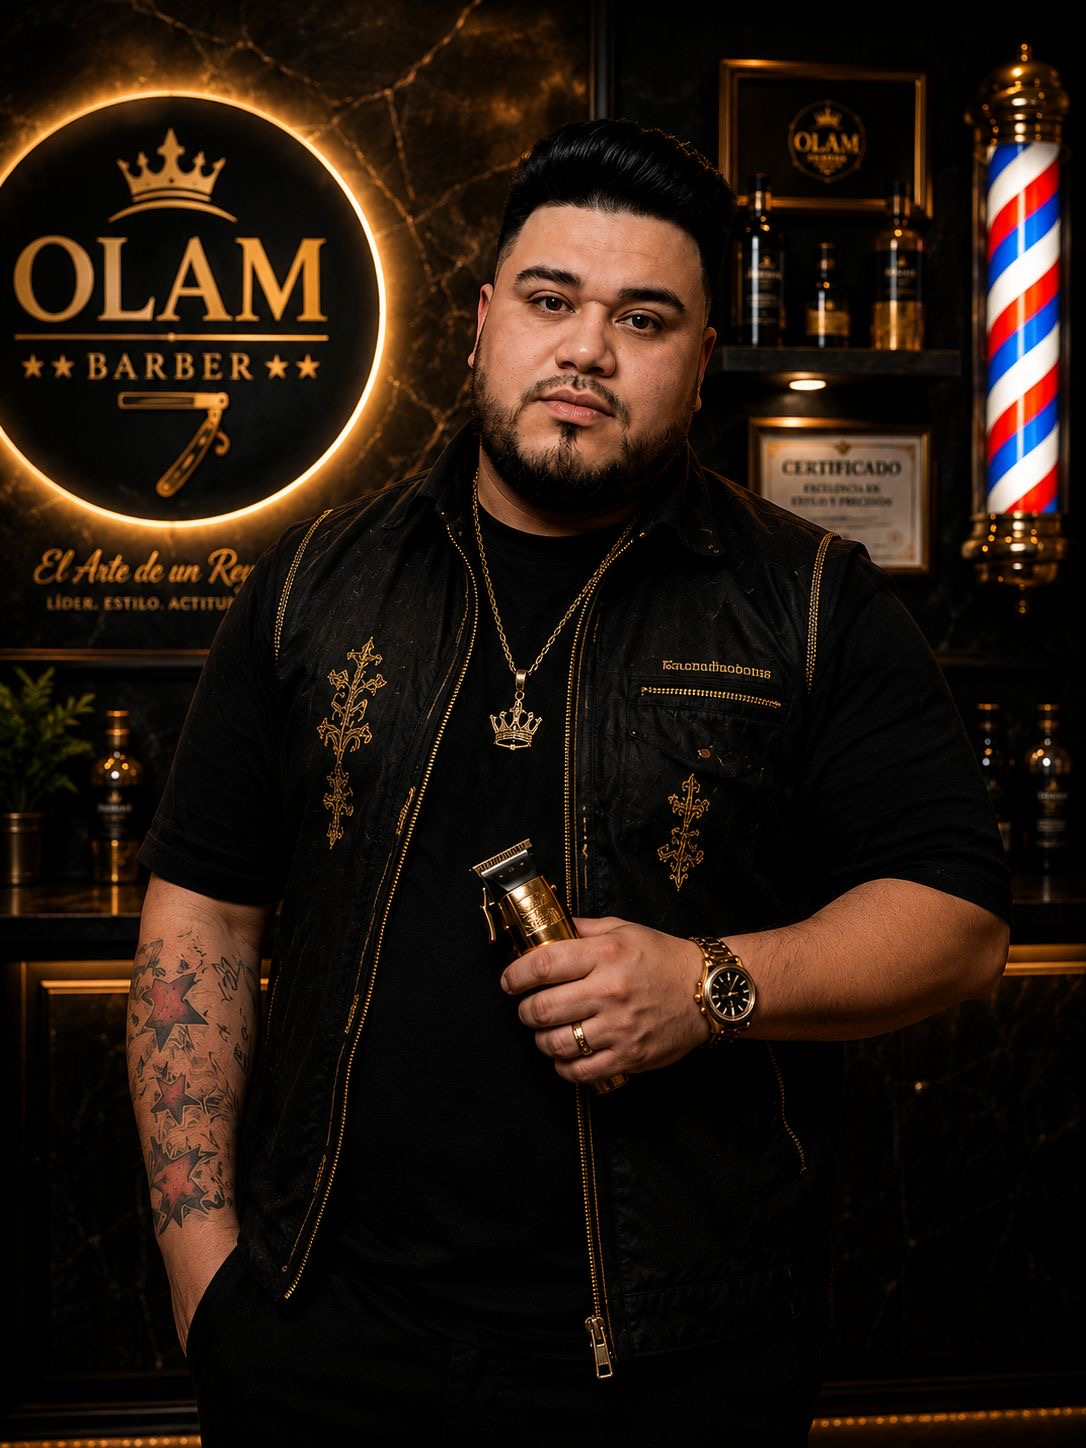
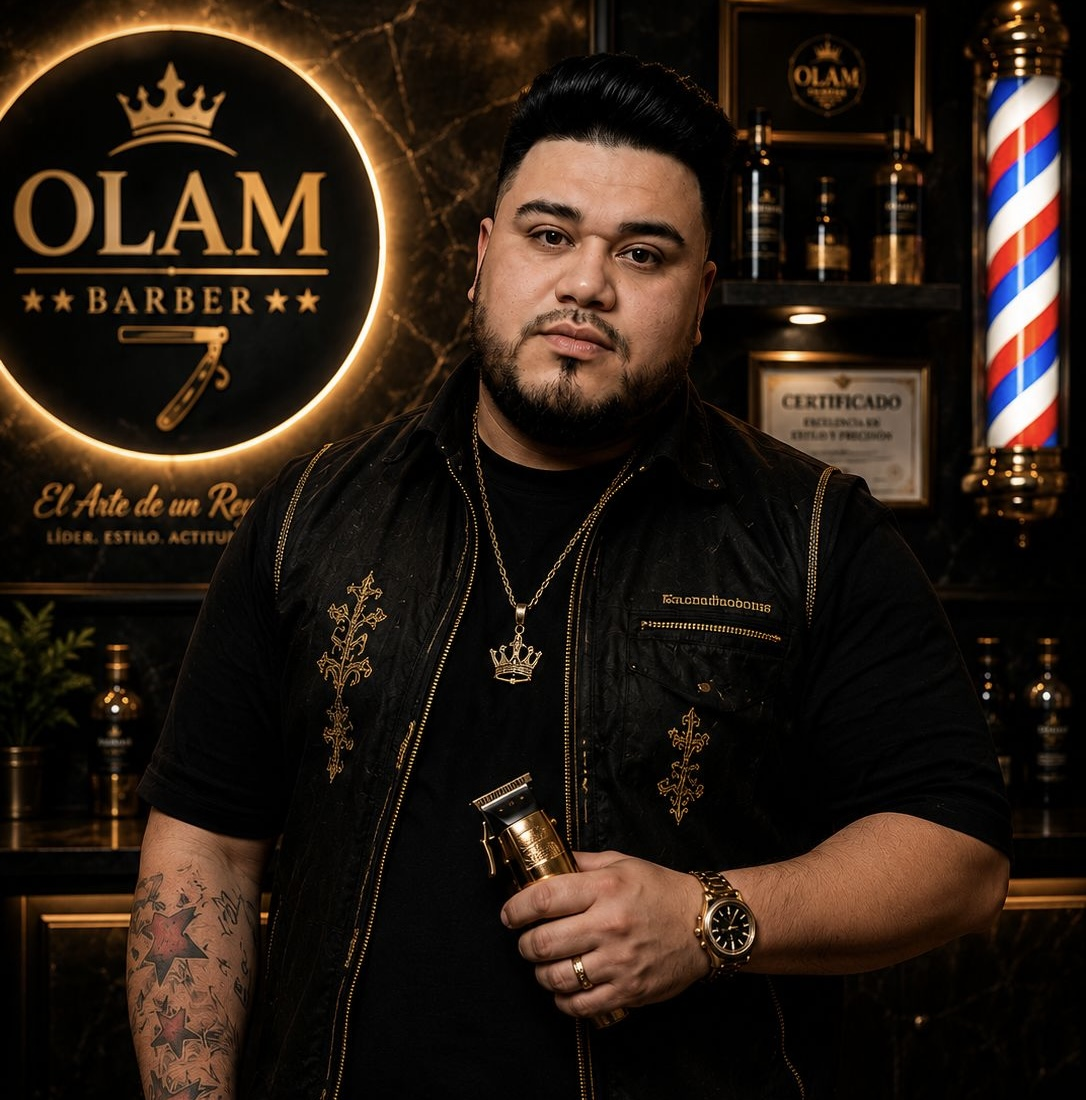
Add files via upload

diff --git a/index.html b/index.html
@@ -157,7 +157,7 @@
   .service-divider{width:1px; align-self:stretch; background:var(--border); margin:2px 0;}
 
   .barbero-card{
-    display:flex; align-items:center; gap:14px;
+    display:block;
     cursor:pointer;
     border-left:2px solid var(--gold);
     border-bottom:2px solid var(--gold);
@@ -170,15 +170,19 @@
     background:linear-gradient(160deg, var(--panel-2) 0%, #1a1409 100%);
     box-shadow:-8px 8px 22px -8px rgba(212,175,55,0.7);
   }
-  .barbero-avatar{
-    flex:0 0 auto; width:46px; height:46px; border-radius:50%;
-    border:1.5px solid var(--gold);
-    display:flex; align-items:center; justify-content:center;
-    color:var(--gold-bright);
-    overflow:hidden;
+  .barbero-header{display:flex; align-items:center; justify-content:space-between; gap:10px; margin-bottom:12px;}
+  .barbero-foto-full{
+    width:100%; aspect-ratio:1/1; object-fit:cover;
+    border-radius:12px; border:1.5px solid var(--gold);
+    display:block;
   }
-  .barbero-avatar svg{width:24px; height:24px;}
-  .barbero-avatar img{width:100%; height:100%; object-fit:cover; display:block;}
+  .barbero-foto-placeholder{
+    width:100%; aspect-ratio:1/1;
+    border-radius:12px; border:1.5px solid var(--gold);
+    display:flex; align-items:center; justify-content:center;
+    color:var(--gold-bright); background:var(--panel-2);
+  }
+  .barbero-foto-placeholder svg{width:64px; height:64px;}
   .barbero-nombre{font-weight:700; font-size:16px;}
   .barbero-dias{color:var(--muted); font-size:12.5px; margin-top:2px;}
   .service-meta{color:var(--muted); font-size:13px;}
@@ -556,17 +560,19 @@ const FOTOS_BARBEROS = {
   "ignacio concha": "ignacio.jpg"
 };
 
-function avatarBarberoHTML(nombre){
+function fotoBarberoHTML(nombre){
   const clave = (nombre || "").trim().toLowerCase();
   const foto = FOTOS_BARBEROS[clave];
   if (foto){
-    return `<img src="${foto}" alt="${nombre}">`;
+    return `<img class="barbero-foto-full" src="${foto}" alt="${nombre}">`;
   }
   return `
-    <svg viewBox="0 0 24 24" fill="none" xmlns="http://www.w3.org/2000/svg">
-      <circle cx="12" cy="8" r="4" stroke="currentColor" stroke-width="1.6"/>
-      <path d="M4 20c0-4.4 3.6-7 8-7s8 2.6 8 7" stroke="currentColor" stroke-width="1.6" stroke-linecap="round"/>
-    </svg>
+    <div class="barbero-foto-placeholder">
+      <svg viewBox="0 0 24 24" fill="none" xmlns="http://www.w3.org/2000/svg">
+        <circle cx="12" cy="8" r="4" stroke="currentColor" stroke-width="1.6"/>
+        <path d="M4 20c0-4.4 3.6-7 8-7s8 2.6 8 7" stroke="currentColor" stroke-width="1.6" stroke-linecap="round"/>
+      </svg>
+    </div>
   `;
 }
 
@@ -589,13 +595,13 @@ function renderBarberos(){
     div.className = "card barbero-card";
     div.dataset.id = id;
     div.innerHTML = `
-      <div class="barbero-avatar">
-        ${avatarBarberoHTML(b.nombre)}
+      <div class="barbero-header">
+        <div>
+          <div class="barbero-nombre">${b.nombre}</div>
+          <div class="barbero-dias">${diasTrabajoTexto(b.dias)}</div>
+        </div>
       </div>
-      <div>
-        <div class="barbero-nombre">${b.nombre}</div>
-        <div class="barbero-dias">${diasTrabajoTexto(b.dias)}</div>
-      </div>
+      ${fotoBarberoHTML(b.nombre)}
     `;
     div.onclick = () => seleccionarBarbero(id);
     cont.appendChild(div);
